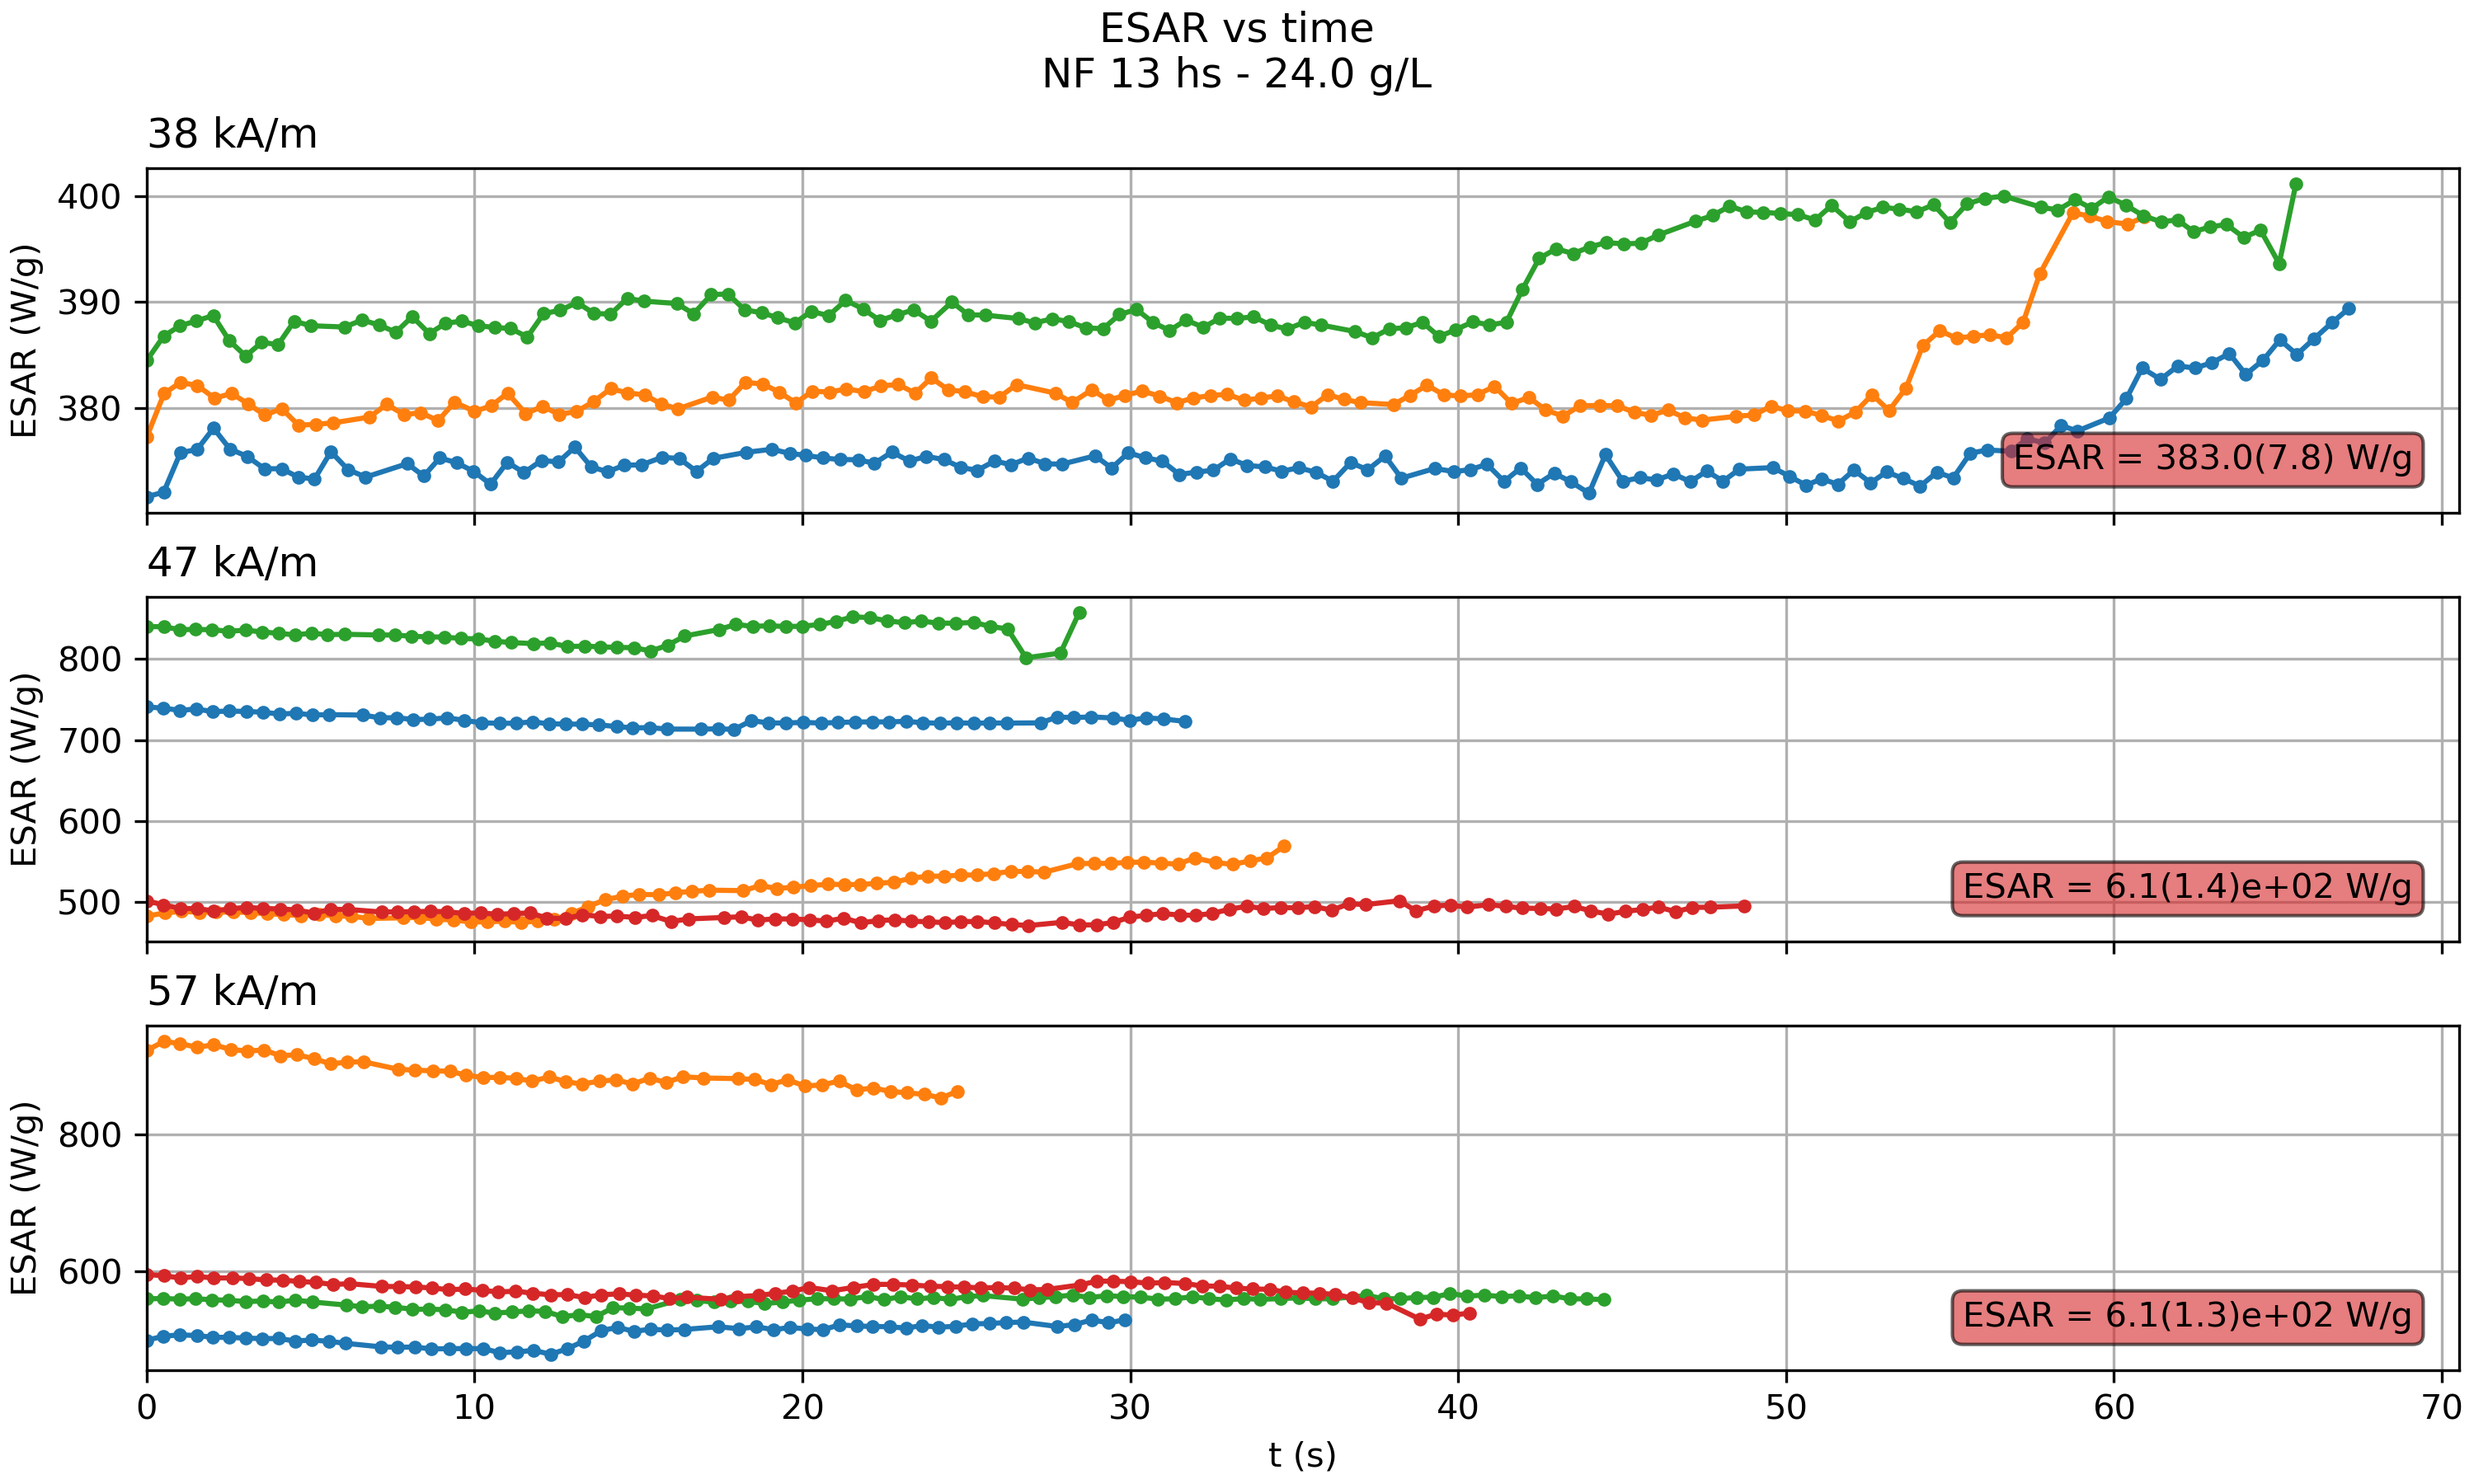
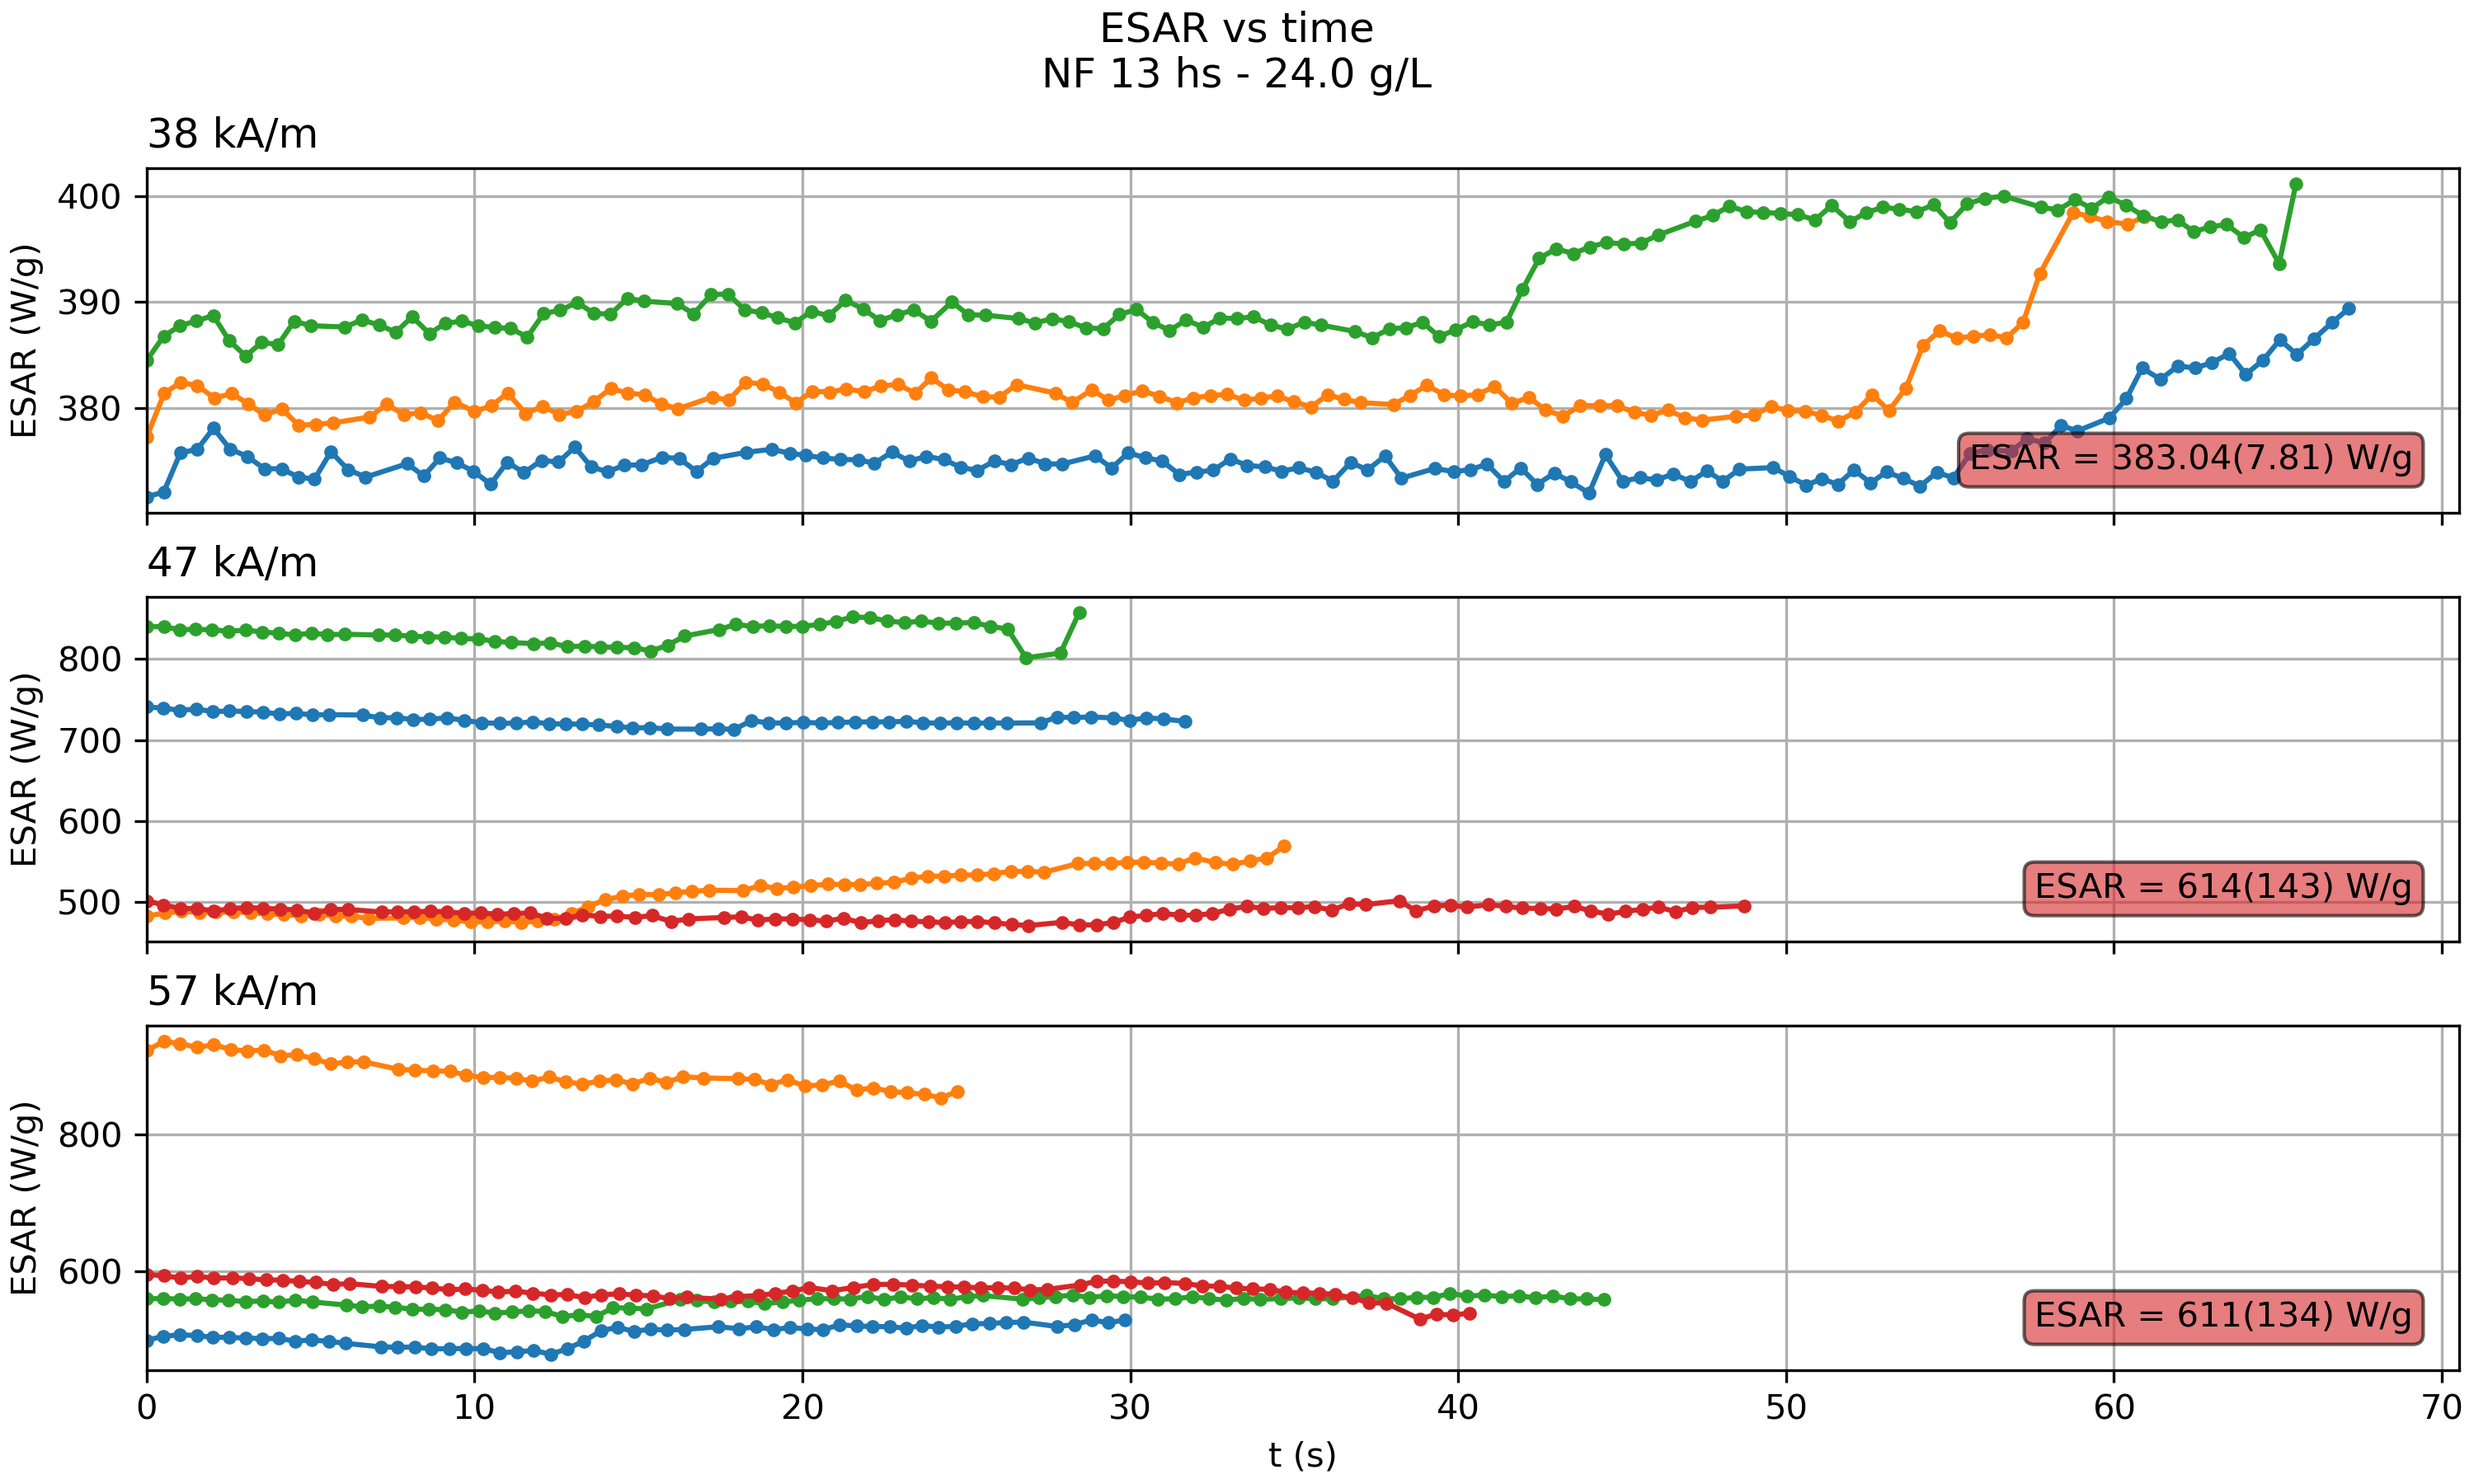
cambios minimos

Changed region(s): [[0.775, 0.56, 0.961, 0.6222], [0.775, 0.28, 0.93, 0.3422], [0.775, 0.8711, 0.961, 0.9022]]

diff --git a/comparativa_NF_13h.py b/comparativa_NF_13h.py
@@ -325,17 +325,17 @@ ESAR_13_100 = ufloat(np.mean(np.concatenate(ESAR_13_100)),np.std(np.concatenate(
 ESAR_13_125 = ufloat(np.mean(np.concatenate(ESAR_13_125)),np.std(np.concatenate(ESAR_13_125)))
 ESAR_13_150 = ufloat(np.mean(np.concatenate(ESAR_13_150)),np.std(np.concatenate(ESAR_13_150)))
 
-ax.text(0.98,0.2,f'ESAR = {ESAR_13_100:.2uS} W/g',
+ax.text(0.98,0.2,f'ESAR = {ESAR_13_100:.3uS} W/g',
         bbox=dict(boxstyle="round", fc='C3',alpha=0.6,lw=1),
         ha='right',va='top',
         transform=ax.transAxes)
 
-ax2.text(0.98,0.2,f'ESAR = {ESAR_13_125:.2uS} W/g',
+ax2.text(0.98,0.2,f'ESAR = {ESAR_13_125:.3uS} W/g',
         bbox=dict(boxstyle="round", fc='C3',alpha=0.6,lw=1),
         ha='right',va='top',
         transform=ax2.transAxes)
 
-ax3.text(0.98,0.2,f'ESAR = {ESAR_13_150:.2uS} W/g',
+ax3.text(0.98,0.2,f'ESAR = {ESAR_13_150:.3uS} W/g',
         bbox=dict(boxstyle="round", fc='C3',alpha=0.6,lw=1),
         ha='right',va='top',
         transform=ax3.transAxes)    
